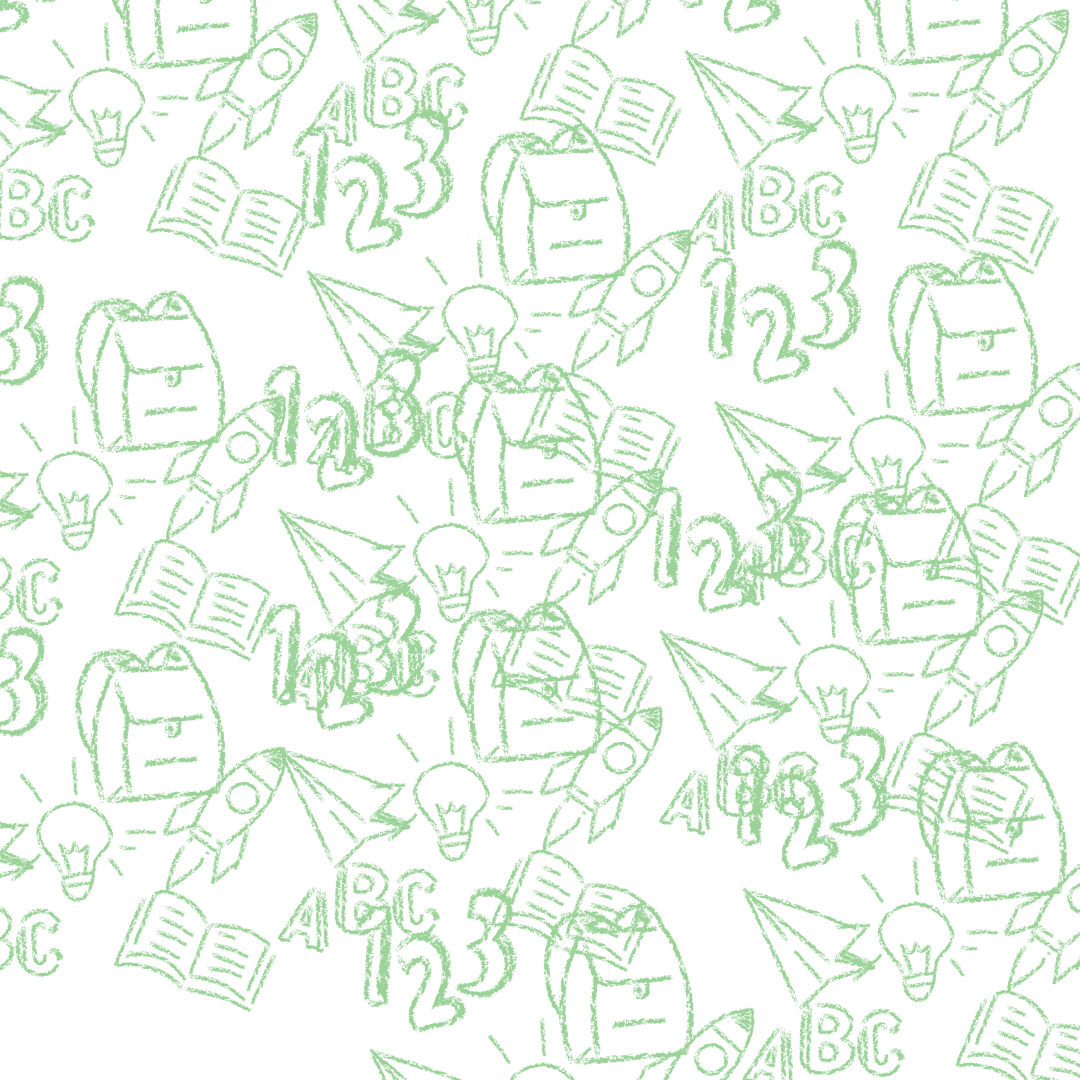
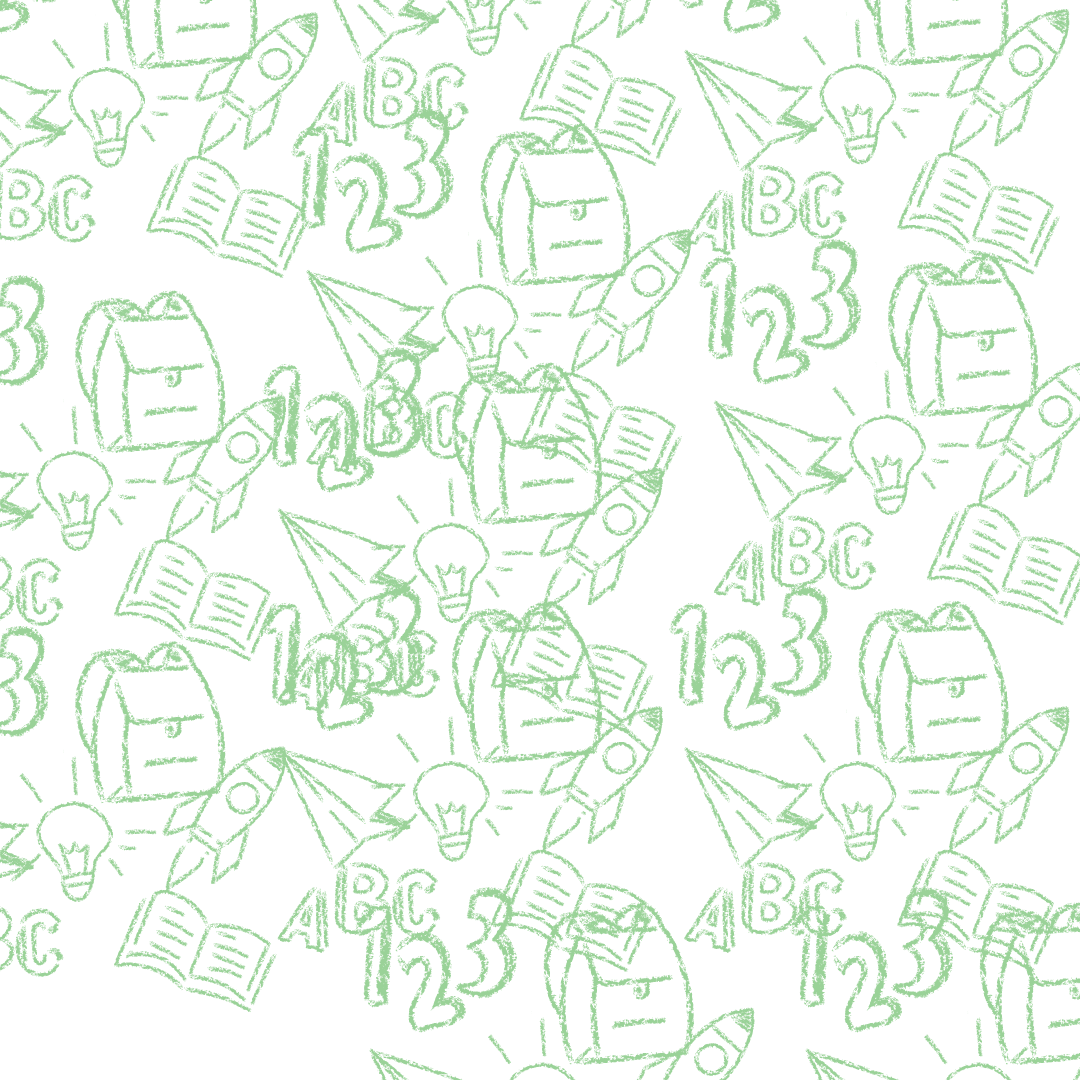
copy card texture in courses.html

Changed region(s): [[0.5806, 0.4278, 1.0, 1.0]]

diff --git a/static/css/courses.css b/static/css/courses.css
@@ -33,12 +33,14 @@
 .course-code {
     font-size: 16px; 
     opacity: 60%;
+    z-index: 2;
 }
 .course-card h3 {
     font-size: 24px;
+    z-index: 2;
 }
 .course-card {
-    background-color: lightgray;
+    background-color: rgb(228, 228, 228);
     padding: 1em 1.5em;
     border-radius: 10px;
     display: flex;
@@ -49,7 +51,26 @@
     width: 320px;
     text-align: center;
     box-shadow: 0 0 10px 0 rgba(0, 0, 0, 0.61);
+    position: relative;
 }
+
+.texture {
+    position: absolute;
+    top: 0;
+    left: 0;
+    width: 100%;
+    height: 100%;
+    opacity: 1;
+    z-index: 1;
+}
+
+.texture img {
+    object-fit: cover;
+    overflow: hidden;
+    width: 100%;
+    height: 100%;
+    z-index: 1;
+}  
 
 .add-change {
     display: flex;
@@ -62,6 +83,7 @@
     width: 100%;
     justify-content: center;
     gap: 15px;
+    z-index: 2;
 }
 
 button {

diff --git a/templates/courses.html b/templates/courses.html
@@ -36,6 +36,9 @@
                         <button class="drop">Drop Course</button>
                     </a>
                 </div>
+                <div class="texture">
+                    <img src="../static/images/card-bg.png" alt="">
+                  </div>
             </div>
             {% endfor %}
             {% include 'flash.html' %}
@@ -62,6 +65,9 @@
                         <button class="enroll">Enroll Course</button>
                     </a>
                 </div>
+                <div class="texture">
+                    <img src="../static/images/card-bg.png" alt="">
+                  </div>
             </div>
             {% endfor %}
             </div>

diff --git a/templates/dashboard.html b/templates/dashboard.html
@@ -67,7 +67,7 @@
          {% if enrolled_courses %}
           {% for course in enrolled_courses %}
             <div class="course-card">
-              <h3>{{ course.name}} <br> <div class="course-code">{{ course.course_code }}</div></h3>
+              <h3>{{ course.name}} <br> <div class="course-code" style="z-index: 2;">{{ course.course_code }}</div></h3>
               <button><a href="/course/{{ course.course_code | replace(' ', '-') }}">View</a></button>
               <div class="texture">
                 <img src="../static/images/card-bg.png" alt="">

diff --git a/static/css/dashboard.css b/static/css/dashboard.css
@@ -159,7 +159,7 @@ button {
   opacity: 60%;
 }
 .course-card {
-  background-color: lightgray;
+  background-color: rgb(228, 228, 228);
   padding: 1em 3em;
   border-radius: 10px;
   display: flex;
